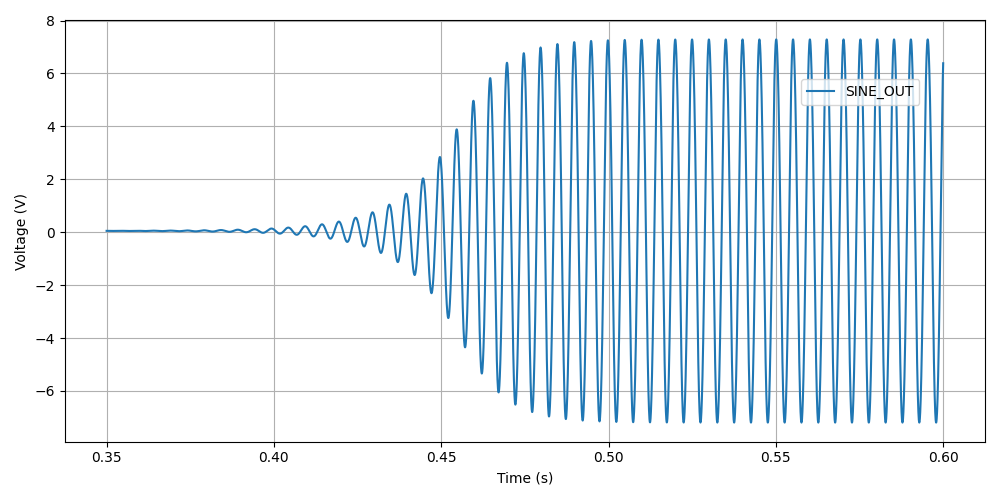
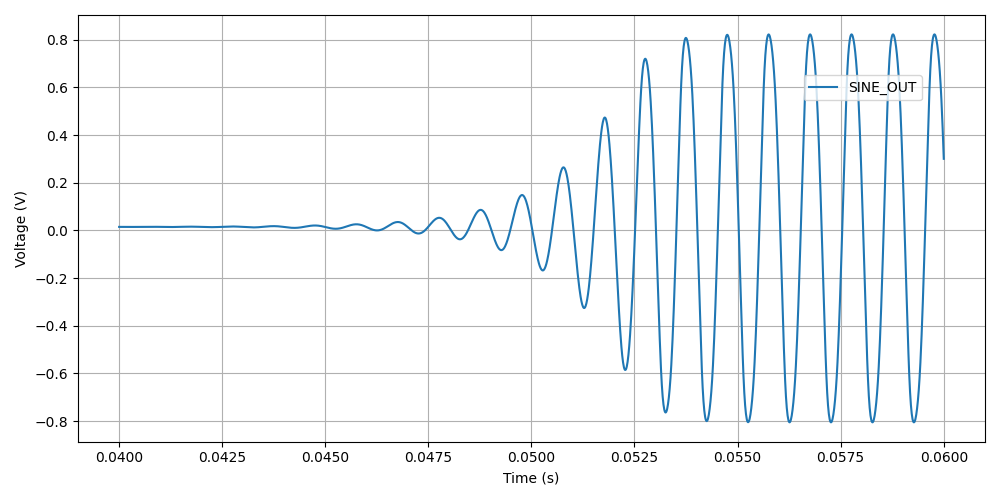
Updated the Wien bridge oscillator worked example.

diff --git a/content/electronics/components/oscillators/wien-bridge-oscillator/main.py b/content/electronics/components/oscillators/wien-bridge-oscillator/main.py
@@ -1,4 +1,5 @@
 # pyspice-post-installation --install-ngspice-dll --ngspice-version=34
+# OR
 # Update pyspice_post_installation.py:
 # NGSPICE_RELEASE_URL = NGSPICE_BASE_URL + '/ng-spice-rework/old-releases'
 # Then:
@@ -65,14 +66,14 @@ def main():
     spice_library = SpiceLibrary(libraries_path)
 
     directory_path = Path(__file__).resolve().parent
-    kicad_netlist_path = directory_path.joinpath('wein-bridge-oscillator-sim.cir')
+    kicad_netlist_path = directory_path.joinpath('wien-bridge-oscillator-sim.cir')
     parser = SpiceParser(path=str(kicad_netlist_path))
     circuit = parser.build_circuit(ground=0)
     simulator = circuit.simulator(temperature=25, nominal_temperature=25)
-    analysis = simulator.transient(step_time=10@u_us, end_time=600@u_ms)
+    analysis = simulator.transient(step_time=10@u_us, end_time=60@u_ms)
 
     v_sine_out = analysis['SINE_OUT']
-    first_index_of_interest = np.where(v_sine_out.abscissa.as_ndarray() > 0.35)[0][0]
+    first_index_of_interest = np.where(v_sine_out.abscissa.as_ndarray() > 0.04)[0][0]
 
     fig, ax = plt.subplots(1, figsize=(10, 5))
     ax.plot(v_sine_out.abscissa.as_ndarray()[first_index_of_interest:], v_sine_out.as_ndarray()[first_index_of_interest:])
@@ -83,18 +84,6 @@ def main():
 
     plt.tight_layout()
     plt.savefig('v-sine-out.png')
-
-    # Plot just a few cycles (i.e. zoomed in)
-    fig, ax = plt.subplots(1, figsize=(10, 5))
-    start_index = 50000
-    end_index = 52000
-    ax.plot(v_sine_out.abscissa.as_ndarray()[start_index:end_index], v_sine_out.as_ndarray()[start_index:end_index])
-    ax.legend(('SINE_OUT',), loc=(.8,.8))
-    ax.grid()
-    ax.set_xlabel('Time (s)')
-    ax.set_ylabel('Voltage (V)')
-    plt.tight_layout()
-    plt.savefig('v-sine-out-few-cycles.png')
 
 if __name__ == '__main__':
     main()

diff --git a/content/electronics/components/oscillators/_index.md b/content/electronics/components/oscillators/_index.md
@@ -199,39 +199,37 @@ The impedance `\(Z_P\)` of the parallel RC circuit is:
 <p>\begin{align}
 Z_P &= R \; || \; X_C \nonumber \\
     &= R \; || \; \frac{1}{j\omega C} \nonumber \\
-    &= \frac{R \frac{1}{j\omega C}}{R + \frac{1}{j\omega C}} && \text{Rule for impedances in parallel.} \nonumber \\
+    &= \frac{R \frac{1}{j\omega C}}{R + \frac{1}{j\omega C}} && \small \text{Rule for impedances in parallel.} \nonumber \\
     \label{eqn:zp}
-    &= \frac{R}{j\omega RC + 1} && \text{Multiplying top and bottom by \(j\omega C\)}
+    &= \frac{R}{j\omega RC + 1} && \small \text{Multiplying top and bottom by \(j\omega C\)}
 \end{align}</p>
 
-We can then write an equation for the voltage at the non-inverting pin of the op-amp in terms of the output voltage, and then describing it as a ratio we can get the gain of the RC network, `\(A_{RC}\)`:
+We can then write an equation for the voltage at the non-inverting pin of the op-amp in terms of the output voltage, and then describing it as a ratio we can get the gain of the RC network, `\(\beta\)` (the symbol `\(\beta\)` used here is consistent with the Barkhausen stability criterion):
 
 <p>\begin{align}
 v_{\text{non-inv}} &= \frac{Z_P}{Z_P + Z_S} v_{out} && \tiny\text{Resistor divider rule} \nonumber \\
-\frac{v_{\text{non-inv}}}{v_{out}} &= A_{RC} = \frac{Z_P}{Z_P + Z_S}  \nonumber \\
+\frac{v_{\text{non-inv}}}{v_{out}} &= \beta = \frac{Z_P}{Z_P + Z_S}  \nonumber \\
     &= \frac{ \frac{R}{j\omega RC + 1} }{ \frac{R}{j\omega RC + 1} +  R + \frac{1}{j\omega C} } && \tiny\text{Subs in \(Eq. \ref{eqn:zs}\) and \(Eq. \ref{eqn:zp}\)} \nonumber \\
     &= \frac{ R }{ R + R(j\omega RC + 1) + \frac{j\omega RC + 1}{j\omega C} } && \tiny\text{Multiplying top and bottom by \(j\omega RC\)} \nonumber \\
     &= \frac{ j\omega RC }{ j\omega RC + j\omega RC(j\omega RC + 1) + j\omega RC + 1 } && \tiny\text{Multiplying top and bottom by \(j\omega C\)} \nonumber \\
     &= \frac{ j\omega RC }{ j\omega RC + (j\omega RC)^2 + j\omega RC + j\omega RC + 1 } && \tiny\text{Expanding brackets} \nonumber \\
     &= \frac{ j\omega RC }{ (j\omega RC)^2 + 3j\omega RC + 1 } && \tiny\text{Collecting terms} \nonumber \\
+    \label{eqn:beta}
     &= \frac{ j\omega RC }{ -(\omega RC)^2 + 3j\omega RC + 1 } && \tiny\text{Using the identity \(j^2 = -1\)} \\
 \end{align}</p>
 
 Now if we focus on the purely resistive feedback network to the inverting pin of the op-amp, you should recognize this as the standard non-inverting gain configuration, where the gain is:
 
 <p>\begin{align}
-\require{ams}
-A_{\text{non-inv}} &= 1 + \frac{R_3}{R_4} && \text{Gain equation for non-inverting op-amp.} \\
+\label{eqn:op-amp-gain-non-inv}
+A &= 1 + \frac{R_3}{R_4} && \small \text{Gain equation for non-inverting op-amp.} \\
 \end{align}</p>
 
-In steady-state oscillation, the reduction in amplitude of `\(v_{out}\)` to `\(v_{non-inv}\)` as to be exactly "countered" by the gain provided from `\(v_{non-inv}\)` to `\(v_{out}\)`, in other words:
+In steady-state oscillation, the reduction in amplitude of `\(v_{out}\)` to `\(v_{non-inv}\)` as to be exactly "countered" by the gain provided from `\(v_{non-inv}\)` to `\(v_{out}\)`. This is also known as the Barkhausen criterion:
 
 <p>\begin{align}
-A_{\text{non-inv}}A_{\text{RC}} = 1
-\end{align}</p>
-
-<p>\begin{align}
-\left(1 + \frac{R_3}{R_4}\right)\left(\frac{ j\omega RC }{ -(\omega RC)^2 + 3j\omega RC + 1 }\right) = 1
+| \beta A | &= 1 \\
+\left(1 + \frac{R_3}{R_4}\right)\left(\frac{ j\omega RC }{ -(\omega RC)^2 + 3j\omega RC + 1 }\right) &= 1 && \small \text{Subs. in \(Eq. \ref{eqn:beta}\) and \(Eq. \ref{eqn:op-amp-gain-non-inv}\)}
 \end{align}</p>
 
 Now lets aim to separate the real and imaginary terms and write it as an equation which equals 0:
@@ -273,53 +271,81 @@ A_{\text{non-inv}} &= 1 + \frac{R_3}{R_4} \nonumber \\
 
 ### Realistic Wien Bridge Oscillator Circuits
 
-**There is a problem with the above Wien Bridge oscillator circuits which limits them to the realm of theory only**. It all comes back to the requirement that the Wien Bridge oscillator must have a _loop gain_ of exactly 1 to function properly. If the gain is less than this, the oscillator will not start (or will stop if already started). If it is more than 1, the oscillator output will saturate and your sine wave output will start looking more like a square wave. Wien bridge oscillators typically need a non-linear component (a component which has a resistance which changes with applied voltage) to actively limit the loop gain and keep it at 1.
+**There is a problem with the above Wien Bridge oscillator circuits which limits them to the realm of theory only**. It all comes back to the requirement that the Wien Bridge oscillator must have a _loop gain_ of exactly 1 to function properly (Barkhausen stability criterion). If the gain is less than this, the oscillator will not start (or will stop if already started). If it is more than 1, the oscillator output will saturate and your sine wave output will start looking more like a square wave. Wien bridge oscillators typically need a non-linear component (a component which has a resistance which changes with applied voltage) to actively limit the loop gain and keep it at 1.
 
-Common methods of actively limiting the gain include using a incandescent bulb (resistance increases as it heats up), diodes (resistance decreases as voltage increases) or JFETs.
+Common methods of actively limiting the gain include using:
 
-The frequency of oscillation is determined by the RC networks connected to the non-inverting pin. Given the `\(R\)` and `\(C\)` are identical for both RC networks, the frequency is given by:
-
-<p>\begin{align}
-  f = \frac{1}{2\pi RC}
-\end{align}</p>
-
-<p class="centered">
-  where:<br/>
-  \(f\) is the frequency of oscillation, in \(Hz\)<br/>
-  \(R\) is the resistance, in \(\Omega\)<br/>
-  \(C\) is the capacitance, in \(F\)
-</p>
+* Incandescent bulb (resistance increases as it heats up)
+* Diodes across in parallel with feedback resistors (resistance decreases as voltage increases)
+* JFETs.
 
 Wien bridge oscillators can also be made from a single supply[^analog-devices-single-supply-wien-bridge].
 
 ### Example And SPICE Simulation
 
-{{% figure src="wien-bridge-oscillator/schematics.png" width="800px" caption="Wien Bridge oscillator circuit." %}}
+{{% note %}}
+I have just used the calculated capacitance and resistance values, and not picked the nearest realistic E96 value so that it's easier to keep track of where the values come from.
+{{% /note %}}
 
-The frequency is:
+The first thing is to choose an oscillation frequency. Let's choose `\(1kHz\)`. We will also choose an arbitrary capacitance of `\(C = 10nF\)`. It's good to keep the capacitance somewhat low and use ceramic NP0/C0G type dielectrics, as they will introduce the lowest amount of distortion. This means we need a resistance of:
+
+<p>\begin{align*}
+R &= \frac{1}{2\pi fC}
+  &= \frac{1}{2\pi 1kHz \cdot 10nF}
+  &= 15.9k\Omega
+\end{align*}</p>
+
+Let's use diodes as our non-linear element to make sure the loop gain stays at 1. The trick is to put the diodes in parallel with a portion of the `\(R_3\)` resistance, and make the inverting feedback gain slightly larger than 3 before the diodes begin to conduct.
+
+Ignoring the diodes for a moment, let's aim for a inverting gain of 3.2 and pick an arbitrary value for `\(R_4\)` of `\(1k\Omega\)`.
+
+<p>\begin{align*}
+R_4 = 1k\Omega                   \\
+\end{align*}</p>
 
 <p>\begin{align}
-\label{eqn:example-freq-calc}
-f &= \frac{1}{2\pi RC} \\
-  &= \frac{1}{2\pi \cdot 80k\Omega \cdot 10nF} \\
-  &= 199 Hz
+A &= 1 + \frac{R_3}{R_4}          \\
+3.2 &= 1 + \frac{R_3}{1k\Omega}   \\
+R_3 &= 2.2k\Omega
 \end{align}</p>
 
+Now, we want the oscillations at `\(v_{out}\)` to reach a decent proportion of the supply voltage before the diode kicks in. Since we are running of `\(\pm 12V\)` supplies, lets make the diodes begin to conduct at `\(5V\)`. Let's calculate how much current is flowing through the series leg of `\(R_3\)` and `\(R_4\)` when there is `\(1V\)` at the output:
+
+<p>\begin{align*}
+I &= \frac{1V}{R_3 + R_4} \\
+  &= \frac{1V}{1k\Omega + 2.2k\Omega} \\
+  &= 0.312mA \\
+\end{align*}</p>
+
+Assuming the diodes begin to conduct at `\(0.6V\)`, with `\(0.312mA\)` of current flowing this would be across a resistance of:
+
+<p>\begin{align*}
+R_{3,diode} &= \frac{0.6V}{0.312mA} \\
+          &= 1.92k\Omega             \\
+\end{align*}</p>
+
+So we need to split `\(R_3\)` into two resistors in series, one of `\(1.92k\Omega\)` with the diodes across it `\(R_{3,diode}\)` and one of:
+
+<p>\begin{align*}
+R_{3, no-diode} &= R_3 - R_{3,diode}      \\
+                &= 2.2k\Omega - 1.92k\Omega \\
+                &= 280\Omega            \\
+\end{align*}</p>
+
+{{% figure src="wien-bridge-oscillator/schematics.png" width="800px" caption="Wien Bridge oscillator circuit." %}}
+
+We can then simulate the circuit using ngspice (an open-source SPICE-like circuit simulator):
 
 {{% figure src="wien-bridge-oscillator/v-sine-out.png" width="800px" caption="SPICE simulation results for the Wien Bridge oscillator circuit shown above. Note how the circuit takes approx. 350ms to start-up, relying on noise (which SPICE does simulate) for the initial 'kick' to begin oscillating." %}}
 
-If we zoom in we can measure the frequency SPICE puts the oscillator at:
-
-{{% figure src="wien-bridge-oscillator/v-sine-out-few-cycles.png" width="800px" %}}
-
-You can count 3 cycles in 15ms, which puts the simulated frequency at:
+You can count 6 cycles in approx. 6ms, which puts the simulated frequency at:
 
 <p>\begin{align}
-f &= \frac{3}{15ms}
-  &= 200Hz
+f &= \frac{6}{6ms} \\
+  &= 1kHz
 \end{align}</p>
 
-which agrees well with what we calculated in `\(Eq. \ref{eqn:example-freq-calc}\)`.
+which agrees well with what we designed for!
 
 You can download the following assets:
 

diff --git a/content/posts/2021/05-31-may-2021-updates/_index.md b/content/posts/2021/05-31-may-2021-updates/_index.md
@@ -1,0 +1,13 @@
+---
+author: "gbmhunter"
+categories: [ "Posts", "Updates" ]
+date: 2021-05-31
+description: "Blog updates during May 2021."
+draft: false
+lastmod: 2021-05-31
+tags: []
+title: "May 2021 Updates"
+type: "post"
+---
+
+* Added equations/proofs involving the Wien bridge oscillator.
